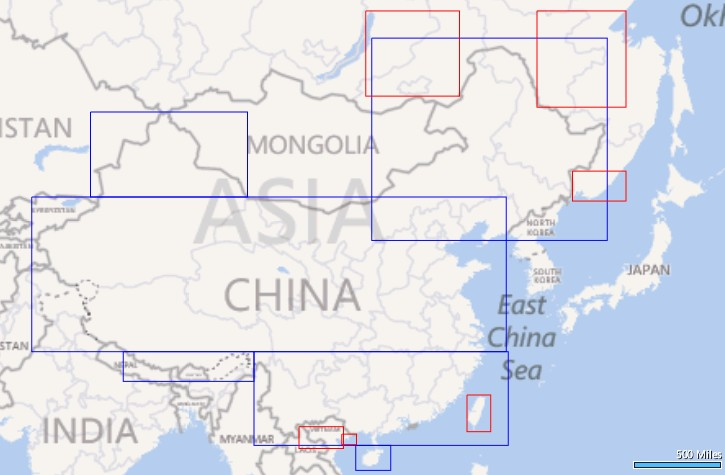
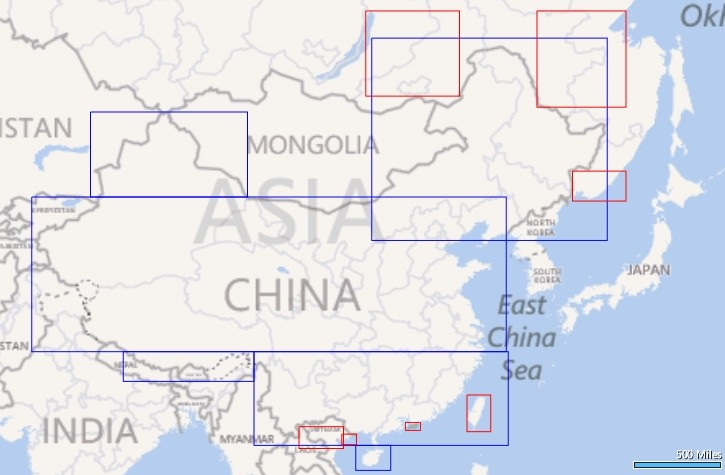
添加香港排除区域

Changed region(s): [[0.1214, 0.4126, 0.3338, 0.4421], [0.5462, 0.8842, 0.6069, 0.9137], [0.3338, 0.7368, 0.3641, 0.7663]]

diff --git a/lib/wgs2mars.min.js b/lib/wgs2mars.min.js
@@ -1,6 +1,6 @@
 /*! 
 Author: hiwanz
 Source: https://github.com/hiwanz/wgs2mars.js.git
-Date: 2016-08-25 18:16:13 
+Date: 2017-04-13 18:22:45 
 */
-!function(a,b){"function"==typeof define&&define.amd?define([],b):"object"==typeof module&&module.exports?module.exports=b():a.transformFromWGSToGCJ=b()}(this,function(){function a(a,b,c,d){this.west=Math.min(a,c),this.north=Math.max(b,d),this.east=Math.max(a,c),this.south=Math.min(b,d)}function b(a,b,c){return a.west<=b&&a.east>=b&&a.north>=c&&a.south<=c}function c(a,c){for(var d=0;d<j.length;d++)if(b(j[d],a,c)){for(var e=0;e<k.length;e++)if(b(k[e],a,c))return!1;return!0}return!1}function d(a,b){var c=-100+2*a+3*b+.2*b*b+.1*a*b+.2*Math.sqrt(Math.abs(a));return c+=2*(20*Math.sin(6*a*g)+20*Math.sin(2*a*g))/3,c+=2*(20*Math.sin(b*g)+40*Math.sin(b/3*g))/3,c+=2*(160*Math.sin(b/12*g)+320*Math.sin(b*g/30))/3}function e(a,b){var c=300+a+2*b+.1*a*a+.1*a*b+.1*Math.sqrt(Math.abs(a));return c+=2*(20*Math.sin(6*a*g)+20*Math.sin(2*a*g))/3,c+=2*(20*Math.sin(a*g)+40*Math.sin(a/3*g))/3,c+=2*(150*Math.sin(a/12*g)+300*Math.sin(a/30*g))/3}function f(a,b){var f={};if(!c(a,b))return f={lat:b,lng:a};var j=d(a-105,b-35),k=e(a-105,b-35),l=b/180*g,m=Math.sin(l);m=1-i*m*m;var n=Math.sqrt(m);return j=180*j/(h*(1-i)/(m*n)*g),k=180*k/(h/n*Math.cos(l)*g),f={lat:b+j,lng:a+k}}var g=3.141592653589793,h=6378245,i=.006693421622965943,j=[new a(79.4462,49.2204,96.33,42.8899),new a(109.6872,54.1415,135.0002,39.3742),new a(73.1246,42.8899,124.143255,29.5297),new a(82.9684,29.5297,97.0352,26.7186),new a(97.0253,29.5297,124.367395,20.414096),new a(107.975793,20.414096,111.744104,17.871542)],k=[new a(119.921265,25.398623,122.497559,21.785006),new a(101.8652,22.284,106.665,20.0988),new a(106.4525,21.5422,108.051,20.4878),new a(109.0323,55.8175,119.127,50.3257),new a(127.4568,55.8175,137.0227,49.5574),new a(131.2662,44.8922,137.0227,42.5692)];return f});
+!function(a,b){"function"==typeof define&&define.amd?define([],b):"object"==typeof module&&module.exports?module.exports=b():a.transformFromWGSToGCJ=b()}(this,function(){function a(a,b,c,d){this.west=Math.min(a,c),this.north=Math.max(b,d),this.east=Math.max(a,c),this.south=Math.min(b,d)}function b(a,b,c){return a.west<=b&&a.east>=b&&a.north>=c&&a.south<=c}function c(a,c){for(var d=0;d<j.length;d++)if(b(j[d],a,c)){for(var e=0;e<k.length;e++)if(b(k[e],a,c))return!1;return!0}return!1}function d(a,b){var c=-100+2*a+3*b+.2*b*b+.1*a*b+.2*Math.sqrt(Math.abs(a));return c+=2*(20*Math.sin(6*a*g)+20*Math.sin(2*a*g))/3,c+=2*(20*Math.sin(b*g)+40*Math.sin(b/3*g))/3,c+=2*(160*Math.sin(b/12*g)+320*Math.sin(b*g/30))/3}function e(a,b){var c=300+a+2*b+.1*a*a+.1*a*b+.1*Math.sqrt(Math.abs(a));return c+=2*(20*Math.sin(6*a*g)+20*Math.sin(2*a*g))/3,c+=2*(20*Math.sin(a*g)+40*Math.sin(a/3*g))/3,c+=2*(150*Math.sin(a/12*g)+300*Math.sin(a/30*g))/3}function f(a,b){var f={};if(!c(a,b))return f={lat:b,lng:a};var j=d(a-105,b-35),k=e(a-105,b-35),l=b/180*g,m=Math.sin(l);m=1-i*m*m;var n=Math.sqrt(m);return j=180*j/(h*(1-i)/(m*n)*g),k=180*k/(h/n*Math.cos(l)*g),f={lat:b+j,lng:a+k}}var g=3.141592653589793,h=6378245,i=.006693421622965943,j=[new a(79.4462,49.2204,96.33,42.8899),new a(109.6872,54.1415,135.0002,39.3742),new a(73.1246,42.8899,124.143255,29.5297),new a(82.9684,29.5297,97.0352,26.7186),new a(97.0253,29.5297,124.367395,20.414096),new a(107.975793,20.414096,111.744104,17.871542)],k=[new a(119.921265,25.398623,122.497559,21.785006),new a(101.8652,22.284,106.665,20.0988),new a(106.4525,21.5422,108.051,20.4878),new a(109.0323,55.8175,119.127,50.3257),new a(127.4568,55.8175,137.0227,49.5574),new a(131.2662,44.8922,137.0227,42.5692),new a(113.837108,22.44151,114.408397,22.167709)];return f});

diff --git a/lib/wgs2mars.js b/lib/wgs2mars.js
@@ -57,7 +57,9 @@
         new Rectangle(106.452500, 21.542200, 108.051000, 20.487800),
         new Rectangle(109.032300, 55.817500, 119.127000, 50.325700),
         new Rectangle(127.456800, 55.817500, 137.022700, 49.557400),
-        new Rectangle(131.266200, 44.892200, 137.022700, 42.569200)
+        new Rectangle(131.266200, 44.892200, 137.022700, 42.569200),
+        // hongkong
+        new Rectangle(113.837108, 22.44151, 114.408397, 22.167709)
     ];
 
     function isInChina(lon, lat) {

diff --git a/server.js b/server.js
@@ -3,7 +3,7 @@ const url = require("url");
 const path = require("path");
 const fs = require("fs");
 
-const hostname = '127.0.0.1';
+const hostname = '0.0.0.0';
 const port = 3000;
 const docroot = '';
 
